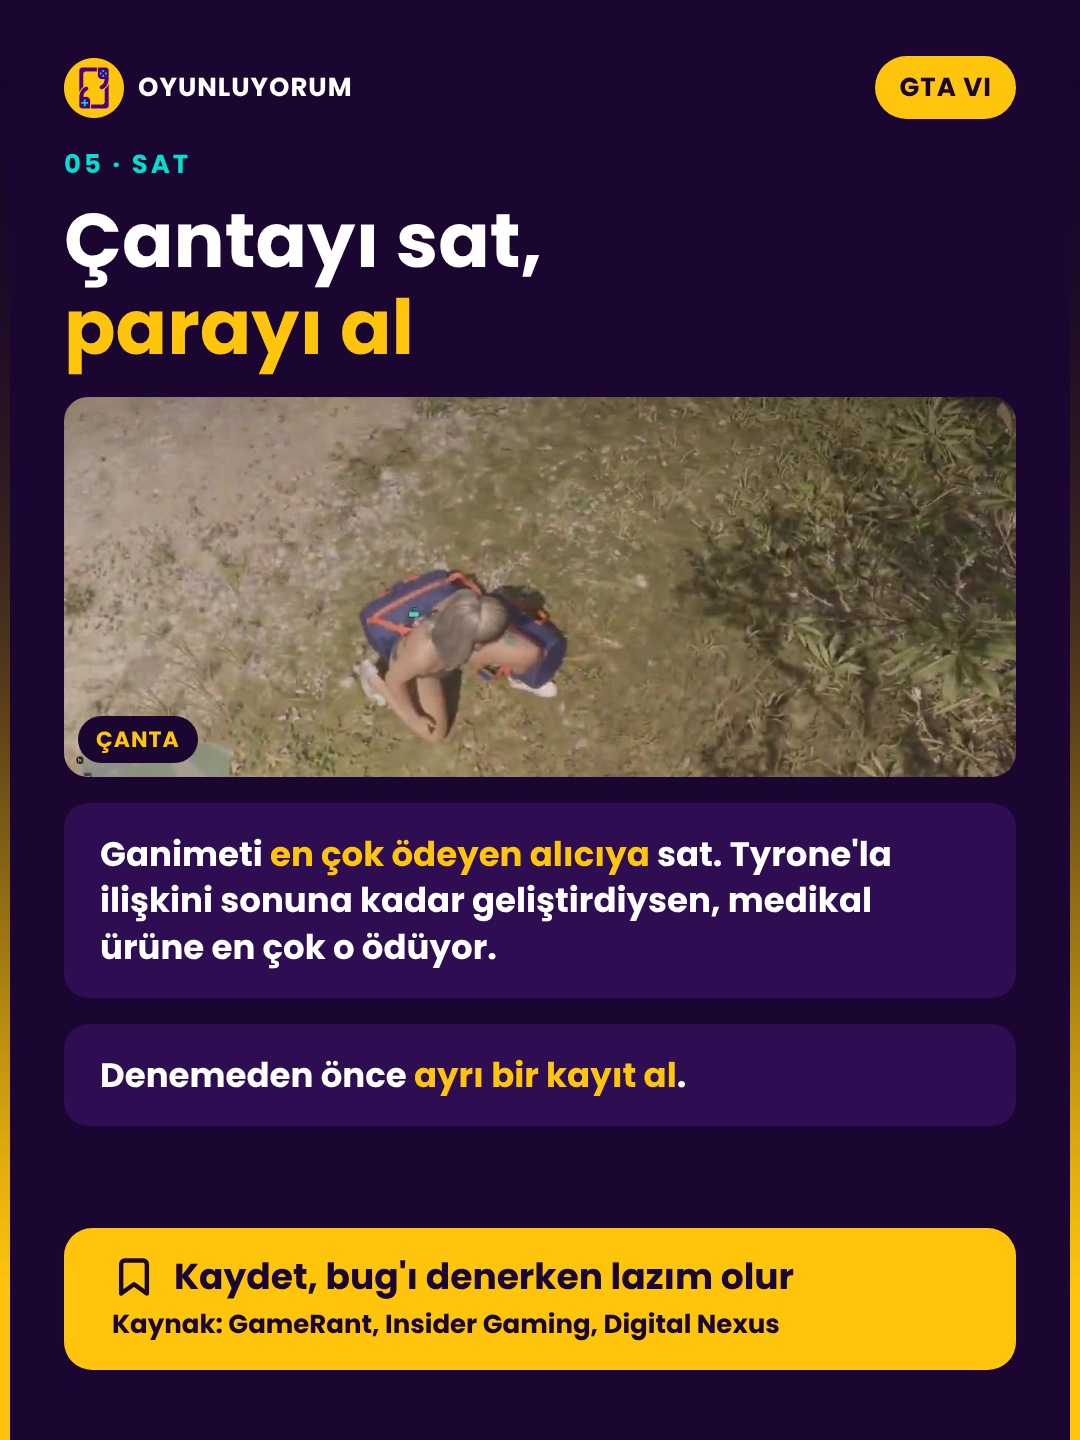
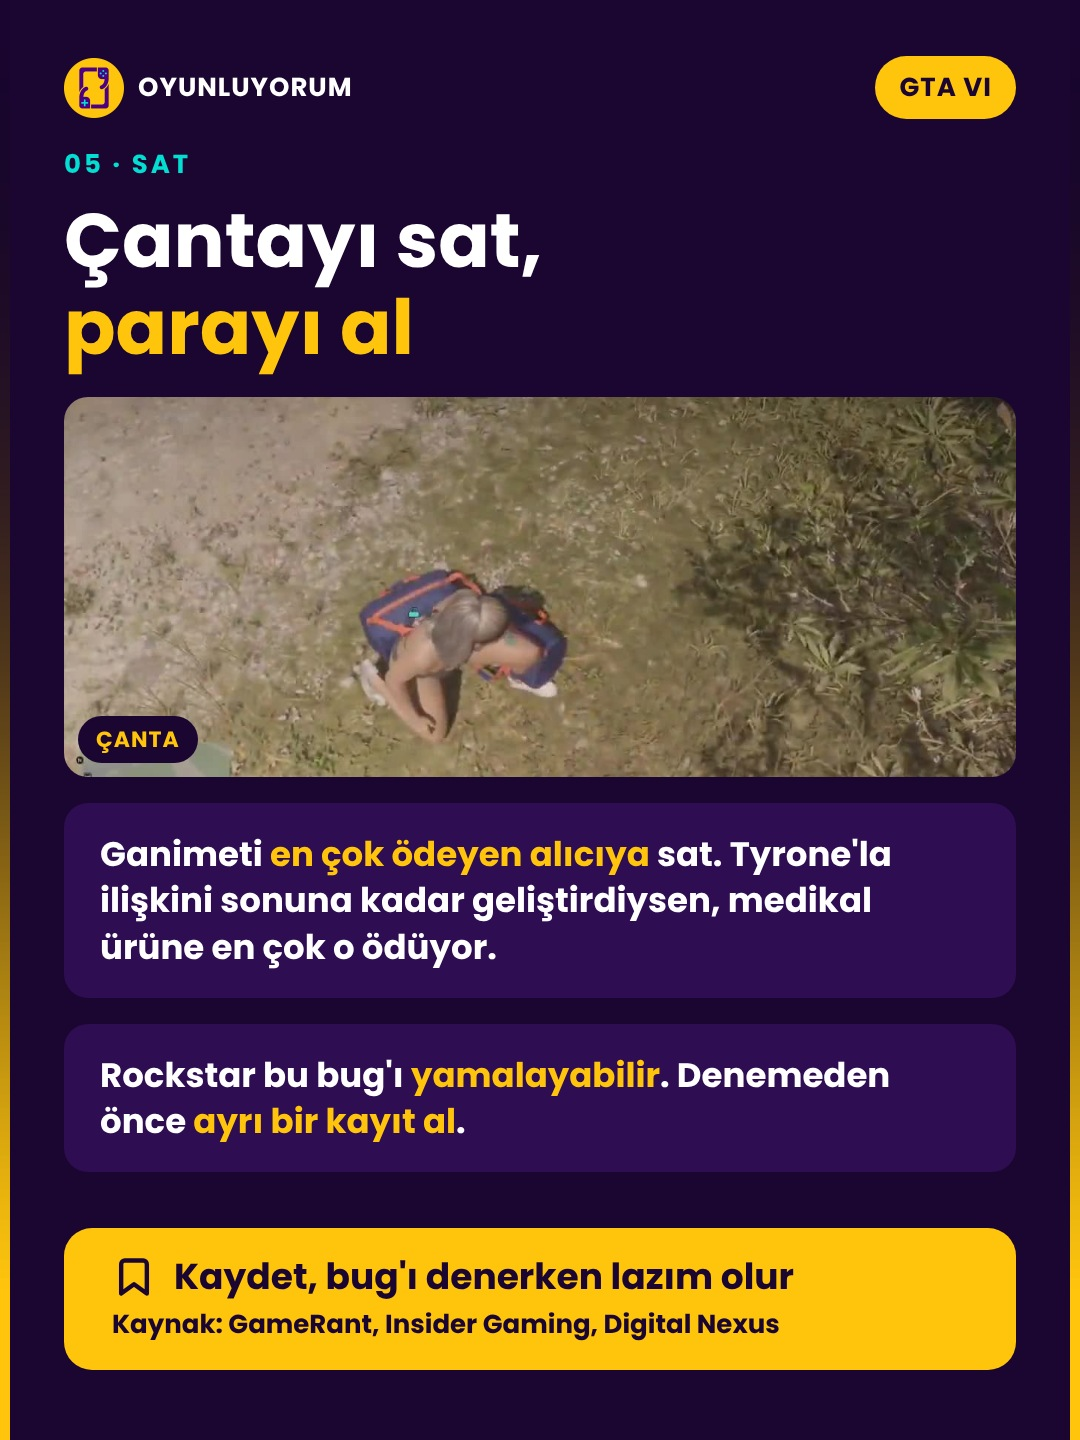
GTA 6 çanta bug karuseli: son slayt uyarısı güncellendi
Claude-Session: https://claude.ai/code/session_01Cfy9VgEXWVL5ta7MT2PpLs

Changed region(s): [[0.0611, 0.7188, 0.9472, 0.8125]]

diff --git a/posts/2026-11-28-gta6-canta-bug/aciklama.md b/posts/2026-11-28-gta6-canta-bug/aciklama.md
@@ -9,7 +9,7 @@ Tuşlar: L1 > R1 > Daire (basılı). Xbox: LB > RB > B.
 ## Açıklama
 GTA 6'da çantanın değerini katlayan bir bug bulundu 💰
 Çömel, çantayı yere bırak, sağ analogla kamerayı çevirip çantayı tekrar al. Sol analoga dokunma! Değer her alışta artıyor, yaklaşık 8-12 kez tekrarlanabiliyor.
-Denemeden önce ayrı bir kayıt almayı unutma. Kaydet 👇
+Rockstar bu bug'ı yamalayabilir, denemeden önce ayrı bir kayıt al. Kaydet 👇
 Bunu GTA oynayan arkadaşına gönder.
 
 #gta6 #gtavi #gta6türkiye #gta6bug #rockstargames #oyun #oyunluyorum
